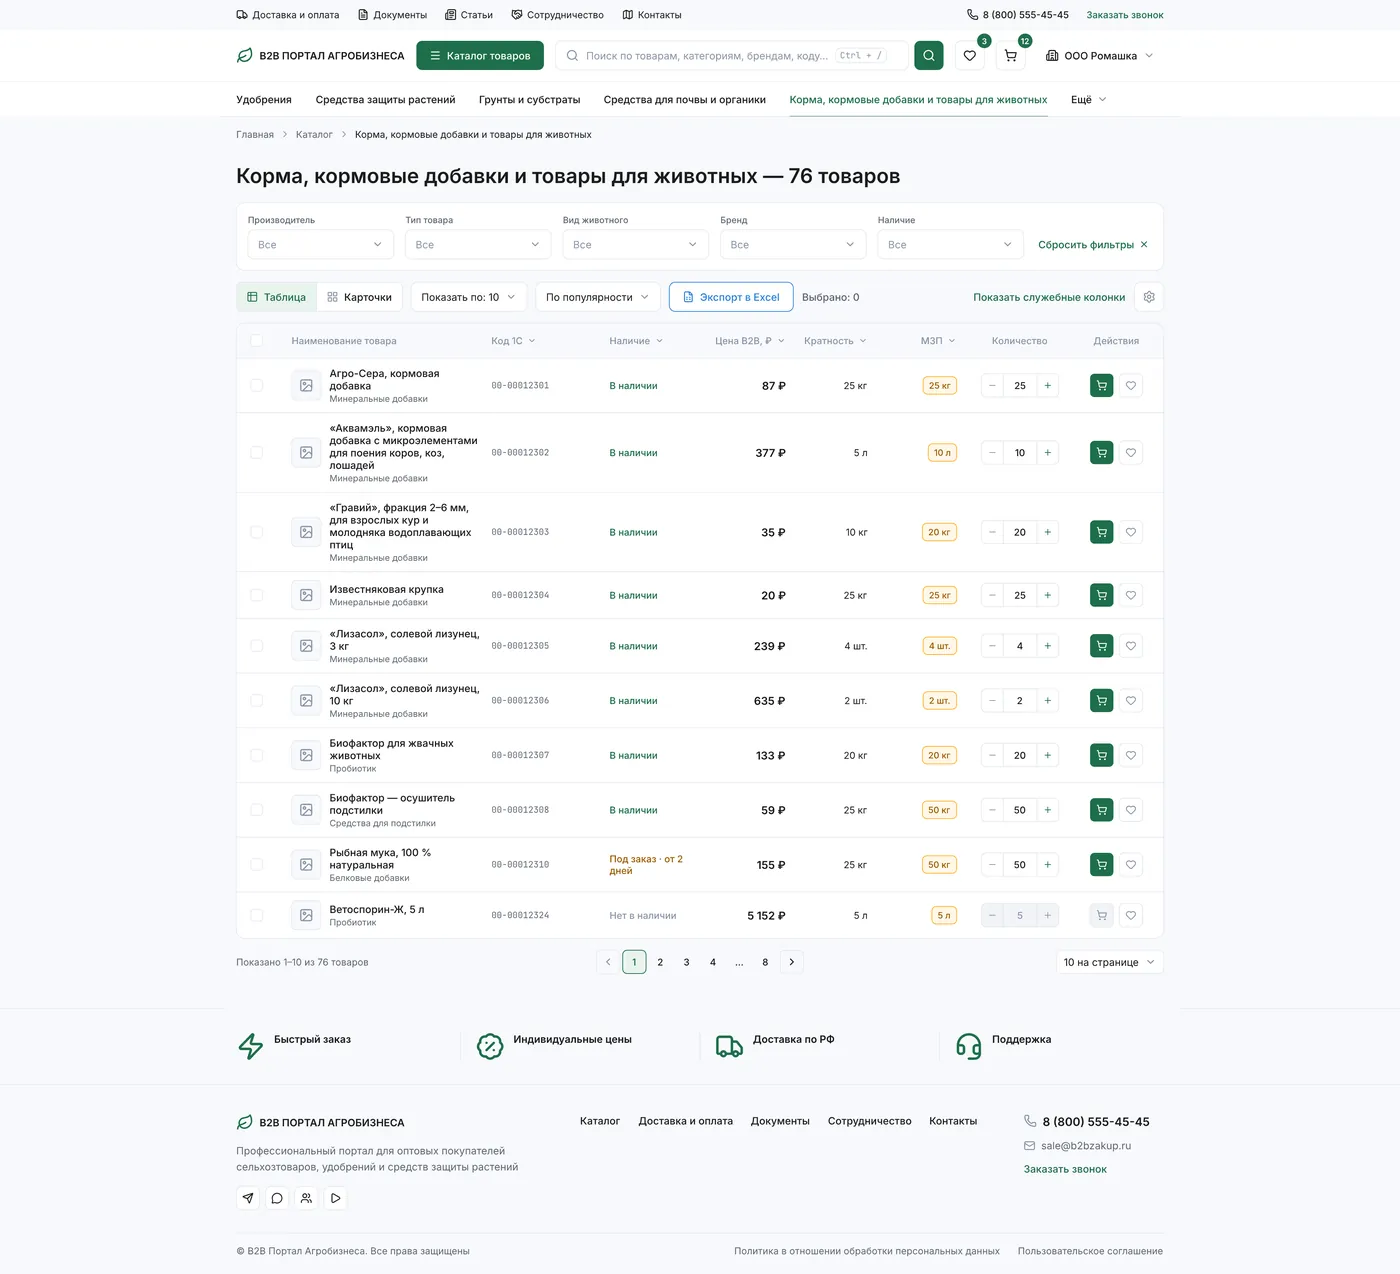
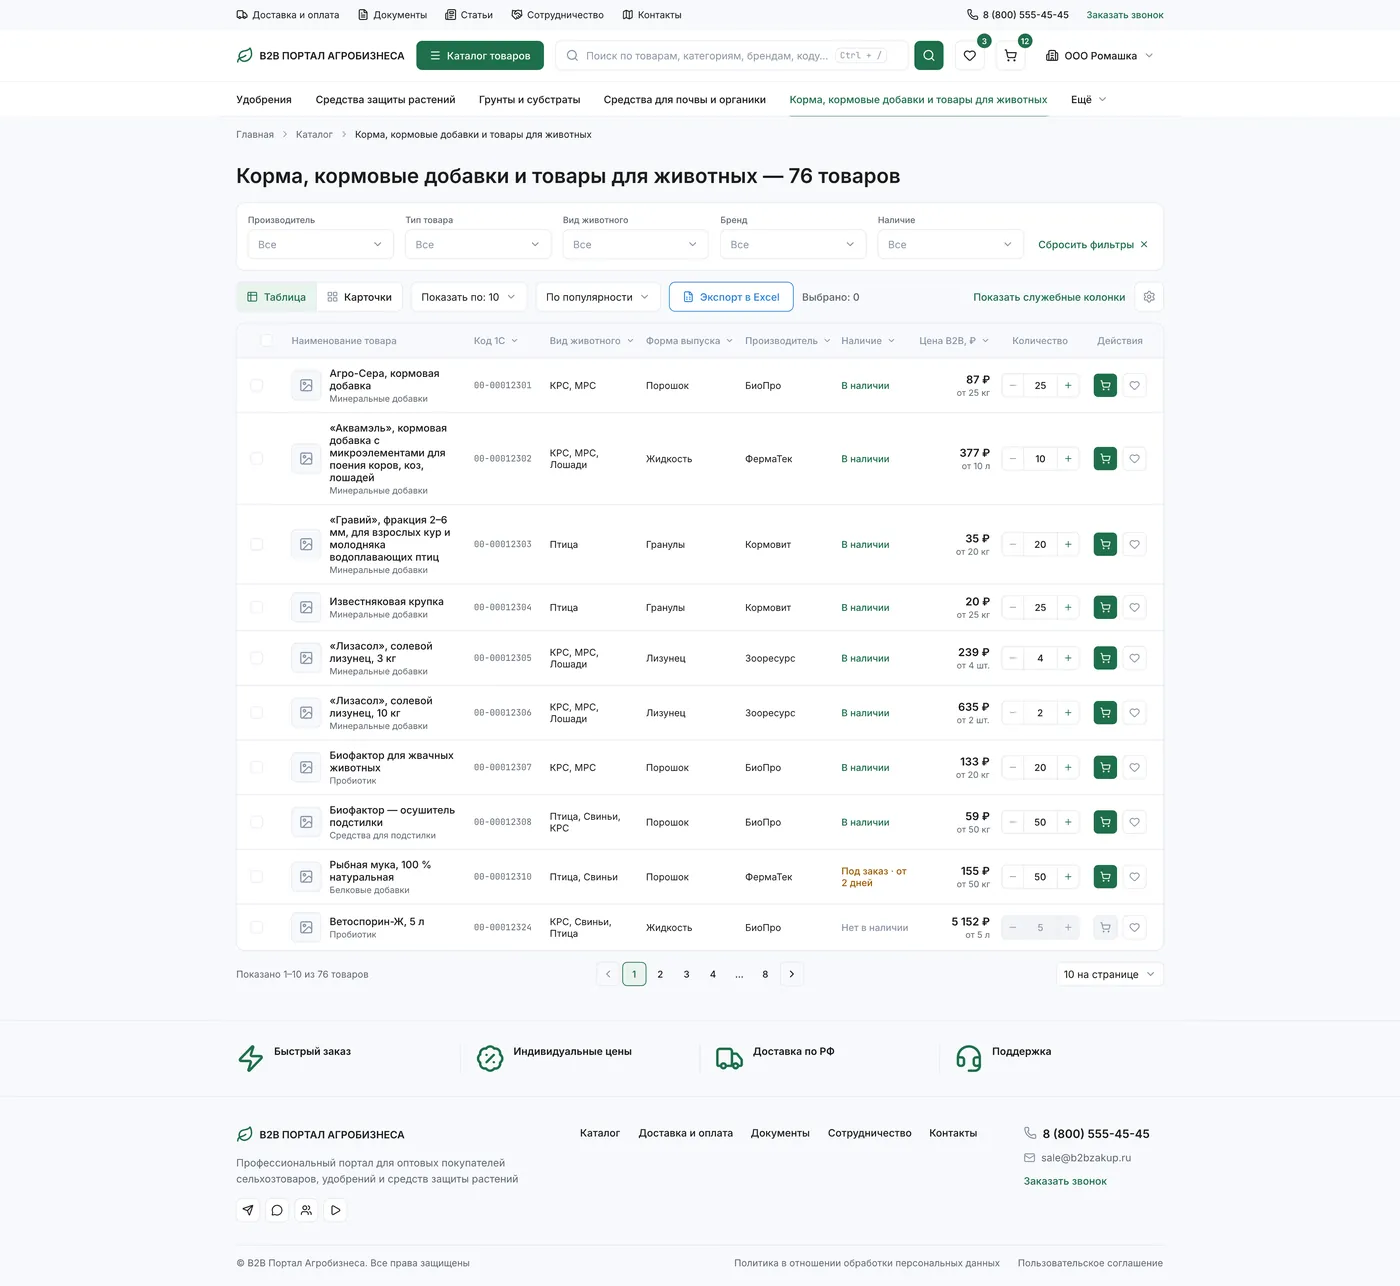
Каталог, таблица: колонки по составу, кадры перевыпущены

diff --git a/docs/design-system/pages.html b/docs/design-system/pages.html
@@ -94,11 +94,11 @@
     <div class="ref-grid ref-grid--wide">
       <figure class="ref">
         <a class="ref__frame" href="assets/pages/catalog-table-1920.webp" data-title="Каталог, режим «Таблица», десктоп">
-          <img src="assets/pages/catalog-table-1920.webp" width="1400" height="1274" loading="lazy" decoding="async" alt="Каталог, режим «Таблица», десктоп">
+          <img src="assets/pages/catalog-table-1920.webp" width="1400" height="1286" loading="lazy" decoding="async" alt="Каталог, режим «Таблица», десктоп">
         </a>
         <figcaption>
           <p class="ref__title">Каталог, режим «Таблица», десктоп</p>
-          <p class="ref__note">Вся страница для вошедшего клиента: панель из пяти фильтров, панель управления с переключателем вида, количеством на странице, сортировкой и экспортом в Excel, таблица на десять строк со статусами наличия, ценой, кратностью и минимальной партией, степпером и кнопками в строке. Служебные колонки скрыты — их включает ссылка над таблицей. Внизу пагинация, преимущества и подвал.</p>
+          <p class="ref__note">Вся страница для вошедшего клиента: панель из пяти фильтров, панель управления с переключателем вида, количеством на странице, сортировкой и экспортом в Excel, таблица на десять строк: код, вид животного, форма выпуска, производитель, статус наличия, цена с минимальной партией, степпер и кнопки в строке. Служебные колонки — штрихкод, кратность, вес, единица хранения — скрыты, их включает ссылка над таблицей. Внизу пагинация, преимущества и подвал.</p>
         </figcaption>
       </figure>
       <figure class="ref">

diff --git a/docs/design-system/index.html b/docs/design-system/index.html
@@ -55,7 +55,7 @@
       <a href="../design-system/references.html">Референсы</a>
       <a href="../design-system/pages.html">Макеты</a>
       <a href="../progress/index.html">Ход работ</a>
-      <span class="version-chip">v1.8 · 11.09.2026</span>
+      <span class="version-chip">v1.9 · 11.09.2026</span>
     </nav>
   </div>
 </header>
@@ -90,7 +90,7 @@
       <div class="hero__meta">
         <span class="badge badge--success">Палитра и типографика согласованы</span>
         <span class="badge badge--tag">48 макетов разобрано</span>
-        <span class="badge badge--tag">Версия 1.8 · 11.09.2026</span>
+        <span class="badge badge--tag">Версия 1.9 · 11.09.2026</span>
       </div>
     </section>
 
@@ -1127,7 +1127,7 @@
 
 <footer class="footer">
   <div class="container footer__inner">
-    <span>B2B-портал агробизнеса · b2bzakup.ru · дизайн-система v1.8 от 11.09.2026</span>
+    <span>B2B-портал агробизнеса · b2bzakup.ru · дизайн-система v1.9 от 11.09.2026</span>
     <span>Страница для согласования. Не для публичного распространения.</span>
   </div>
 </footer>
